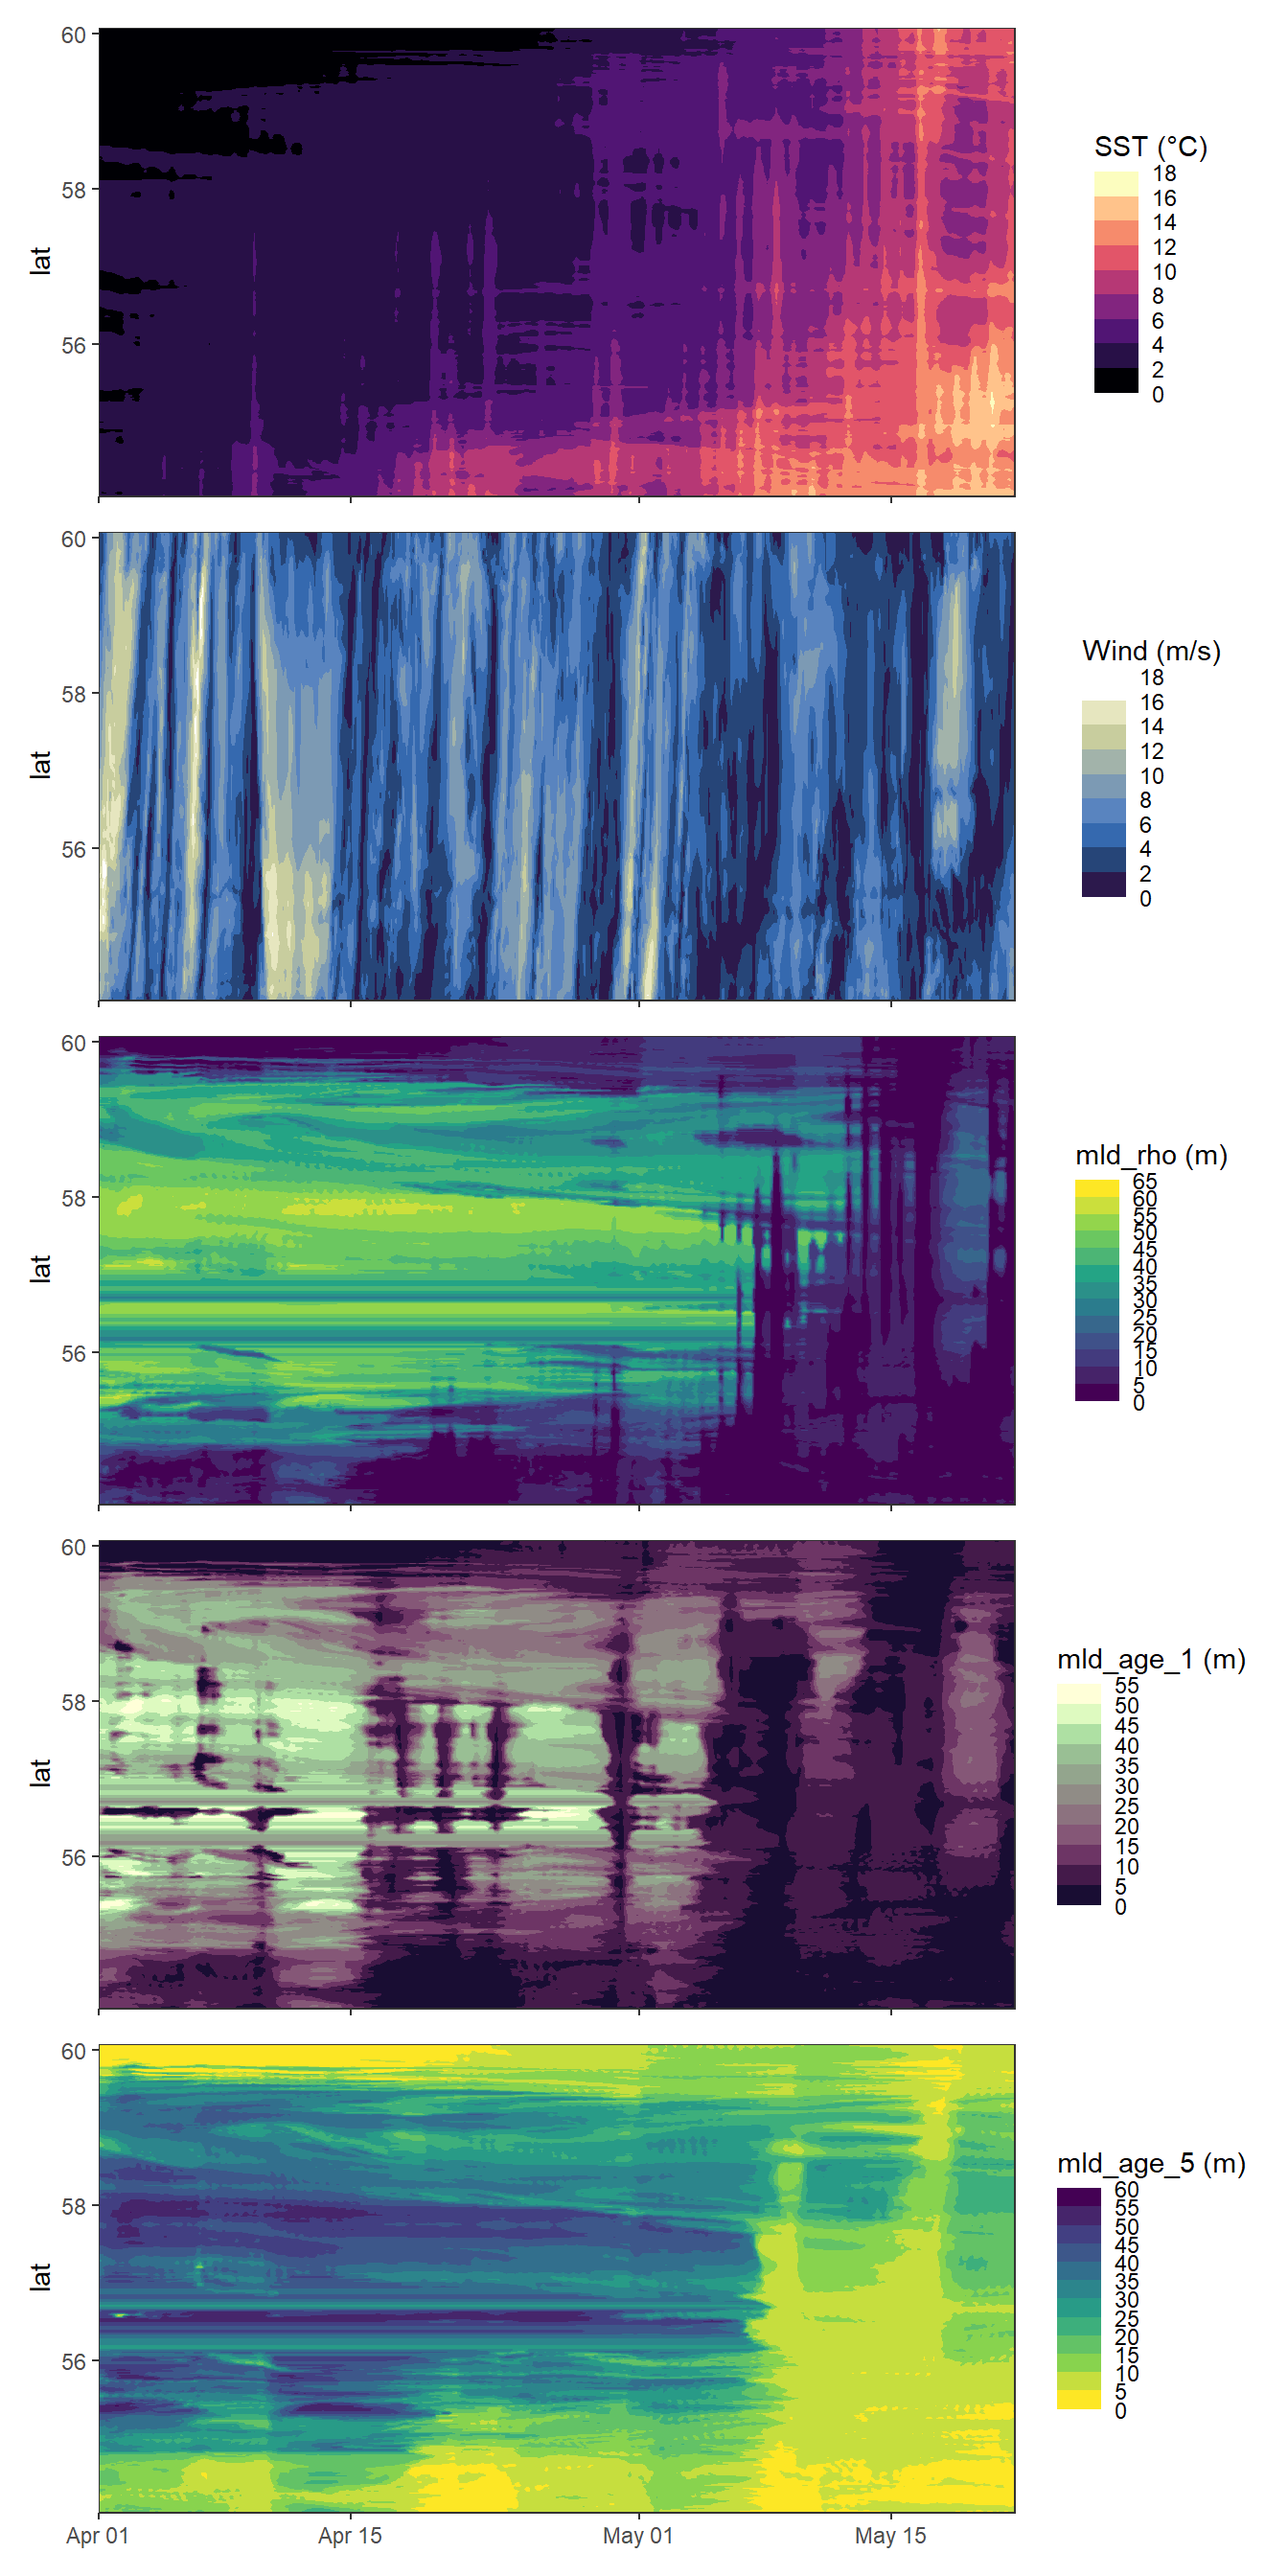
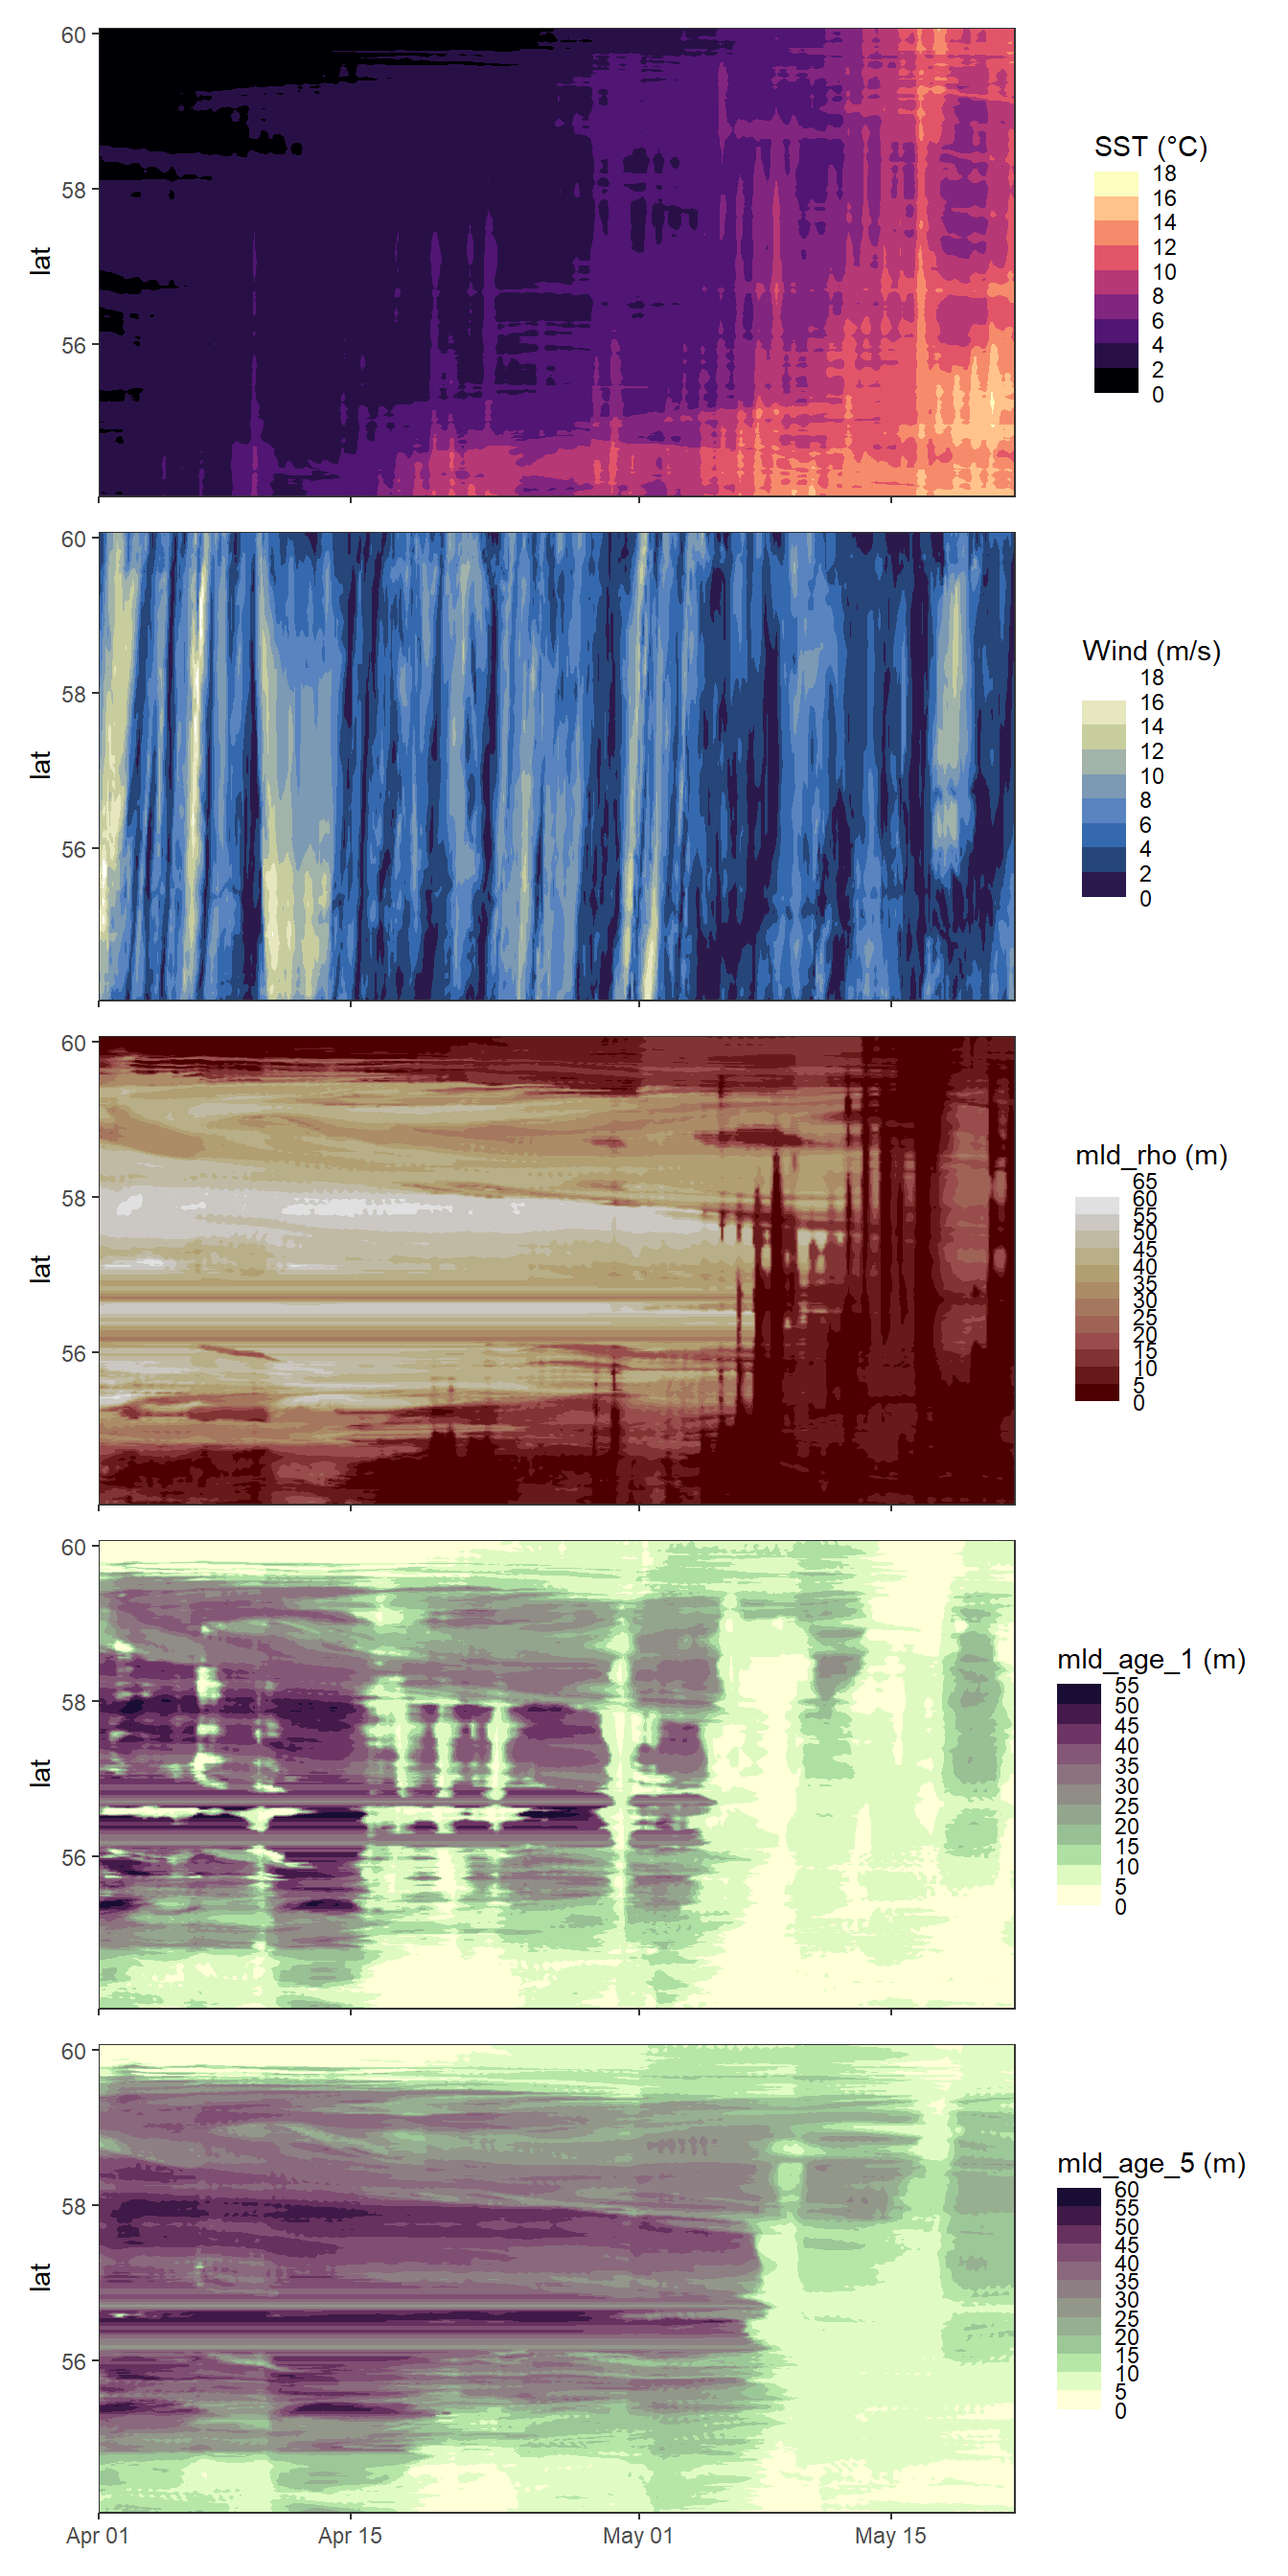
Build site.

diff --git a/docs/getm.html b/docs/getm.html
@@ -515,16 +515,16 @@ This reproducible <a href="http://rmarkdown.rstudio.com">R Markdown</a> analysis
 <div class="panel panel-default">
 <div class="panel-heading">
 <p class="panel-title">
-<a data-toggle="collapse" data-parent="#workflowr-checks" href="#strongRepositoryversionstrongahrefhttpsgithubcomjensdanielmuellergastransfervelocitytreebfe7a5528038a42c9088a81e1fb34a586485ac63targetblankbfe7a55a"> <span class="glyphicon glyphicon-ok text-success" aria-hidden="true"></span> <strong>Repository version:</strong> <a href="https://github.com/jens-daniel-mueller/gastransfer_velocity/tree/bfe7a5528038a42c9088a81e1fb34a586485ac63" target="_blank">bfe7a55</a> </a>
+<a data-toggle="collapse" data-parent="#workflowr-checks" href="#strongRepositoryversionstrongahrefhttpsgithubcomjensdanielmuellergastransfervelocitytree5b918e6f2e86de07add720199cf8b035eb230ed0targetblank5b918e6a"> <span class="glyphicon glyphicon-ok text-success" aria-hidden="true"></span> <strong>Repository version:</strong> <a href="https://github.com/jens-daniel-mueller/gastransfer_velocity/tree/5b918e6f2e86de07add720199cf8b035eb230ed0" target="_blank">5b918e6</a> </a>
 </p>
 </div>
[2 lines of base64/hex data omitted]
 <div class="panel-body">
 <p>
 Great! You are using Git for version control. Tracking code development and connecting the code version to the results is critical for reproducibility.
 </p>
 <p>
-The results in this page were generated with repository version <a href="https://github.com/jens-daniel-mueller/gastransfer_velocity/tree/bfe7a5528038a42c9088a81e1fb34a586485ac63" target="_blank">bfe7a55</a>. See the <em>Past versions</em> tab to see a history of the changes made to the R Markdown and HTML files.
+The results in this page were generated with repository version <a href="https://github.com/jens-daniel-mueller/gastransfer_velocity/tree/5b918e6f2e86de07add720199cf8b035eb230ed0" target="_blank">5b918e6</a>. See the <em>Past versions</em> tab to see a history of the changes made to the R Markdown and HTML files.
 </p>
 <p>
 Note that you need to be careful to ensure that all relevant files for the analysis have been committed to Git prior to generating the results (you can use <code>wflow_publish</code> or <code>wflow_git_commit</code>). workflowr only checks the R Markdown file, but you know if there are other scripts or data files that it depends on. Below is the status of the Git repository when the results were generated:
@@ -575,6 +575,40 @@ Message
 </tr>
 </thead>
 <tbody>
+<tr>
+<td>
+Rmd
+</td>
+<td>
+<a href="https://github.com/jens-daniel-mueller/gastransfer_velocity/blob/5b918e6f2e86de07add720199cf8b035eb230ed0/analysis/getm.Rmd" target="_blank">5b918e6</a>
+</td>
+<td>
+jens-daniel-mueller
+</td>
+<td>
+2020-04-03
+</td>
+<td>
+created hoevmoeller plots
+</td>
+</tr>
+<tr>
+<td>
+html
+</td>
+<td>
+<a href="https://rawcdn.githack.com/jens-daniel-mueller/gastransfer_velocity/272914b45471dcd8e93b2b01fd06857b2dc89d16/docs/getm.html" target="_blank">272914b</a>
+</td>
+<td>
+jens-daniel-mueller
+</td>
+<td>
+2020-04-03
+</td>
+<td>
+Build site.
+</td>
+</tr>
 <tr>
 <td>
 Rmd
@@ -785,9 +819,10 @@ p_rho &lt;- gt_2d_wide %&gt;%
   ggplot()+
   geom_contour_fill(aes(x=date_time, y=lat, z=mld_rho),
                     breaks = MakeBreaks(bin_rho))+
-  scale_fill_viridis_c(breaks = MakeBreaks(bin_rho),
-                       guide = &quot;colorstrip&quot;,
-                       name = &quot;mld_rho (m)&quot;)+
+  scale_fill_scico(breaks = MakeBreaks(bin_rho),
+                   guide = &quot;colorstrip&quot;,
+                   name = &quot;mld_rho (m)&quot;,
+                   direction = -1)+
   coord_cartesian(expand = 0)+
   theme(axis.title.x = element_blank(),
         axis.text.x = element_blank())
@@ -801,7 +836,8 @@ p_age1 &lt;- gt_2d_wide %&gt;%
   scale_fill_scico(breaks = MakeBreaks(bin_age1),
                    guide = &quot;colorstrip&quot;,
                    name = &quot;mld_age_1 (m)&quot;,
-                   palette = &quot;tokyo&quot;)+
+                   palette = &quot;tokyo&quot;,
+                   direction = -1)+
   coord_cartesian(expand = 0)+
   theme(axis.title.x = element_blank(),
         axis.text.x = element_blank())
@@ -811,9 +847,10 @@ p_age5 &lt;- gt_2d_wide %&gt;%
   ggplot()+
   geom_contour_fill(aes(x=date_time, y=lat, z=mld_age_5),
                     breaks = MakeBreaks(bin_age5))+
-  scale_fill_viridis_c(breaks = MakeBreaks(bin_age5),
+  scale_fill_scico(breaks = MakeBreaks(bin_age5),
                        guide = &quot;colorstrip&quot;,
                        name = &quot;mld_age_5 (m)&quot;,
+                       palette = &quot;tokyo&quot;,
                        direction = -1)+
   coord_cartesian(expand = 0)+
   theme(axis.title.x = element_blank())
